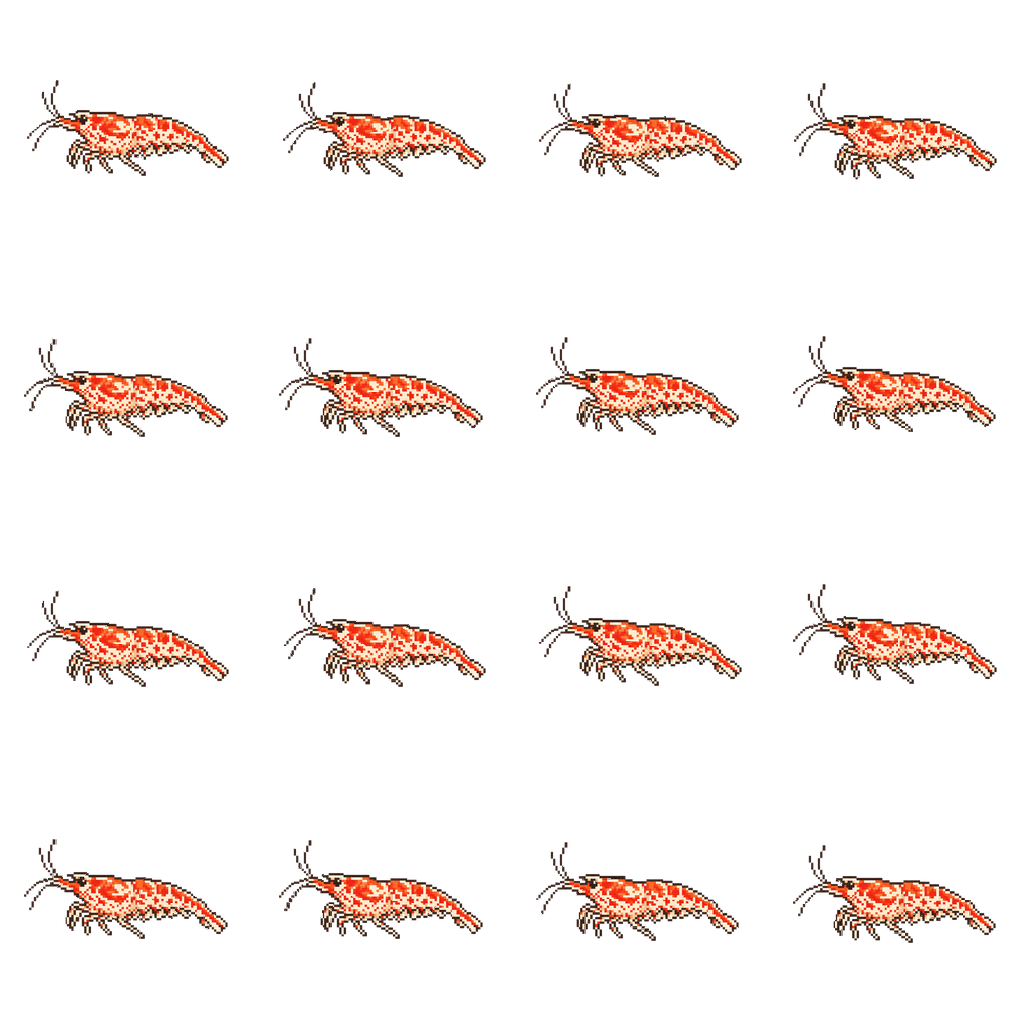
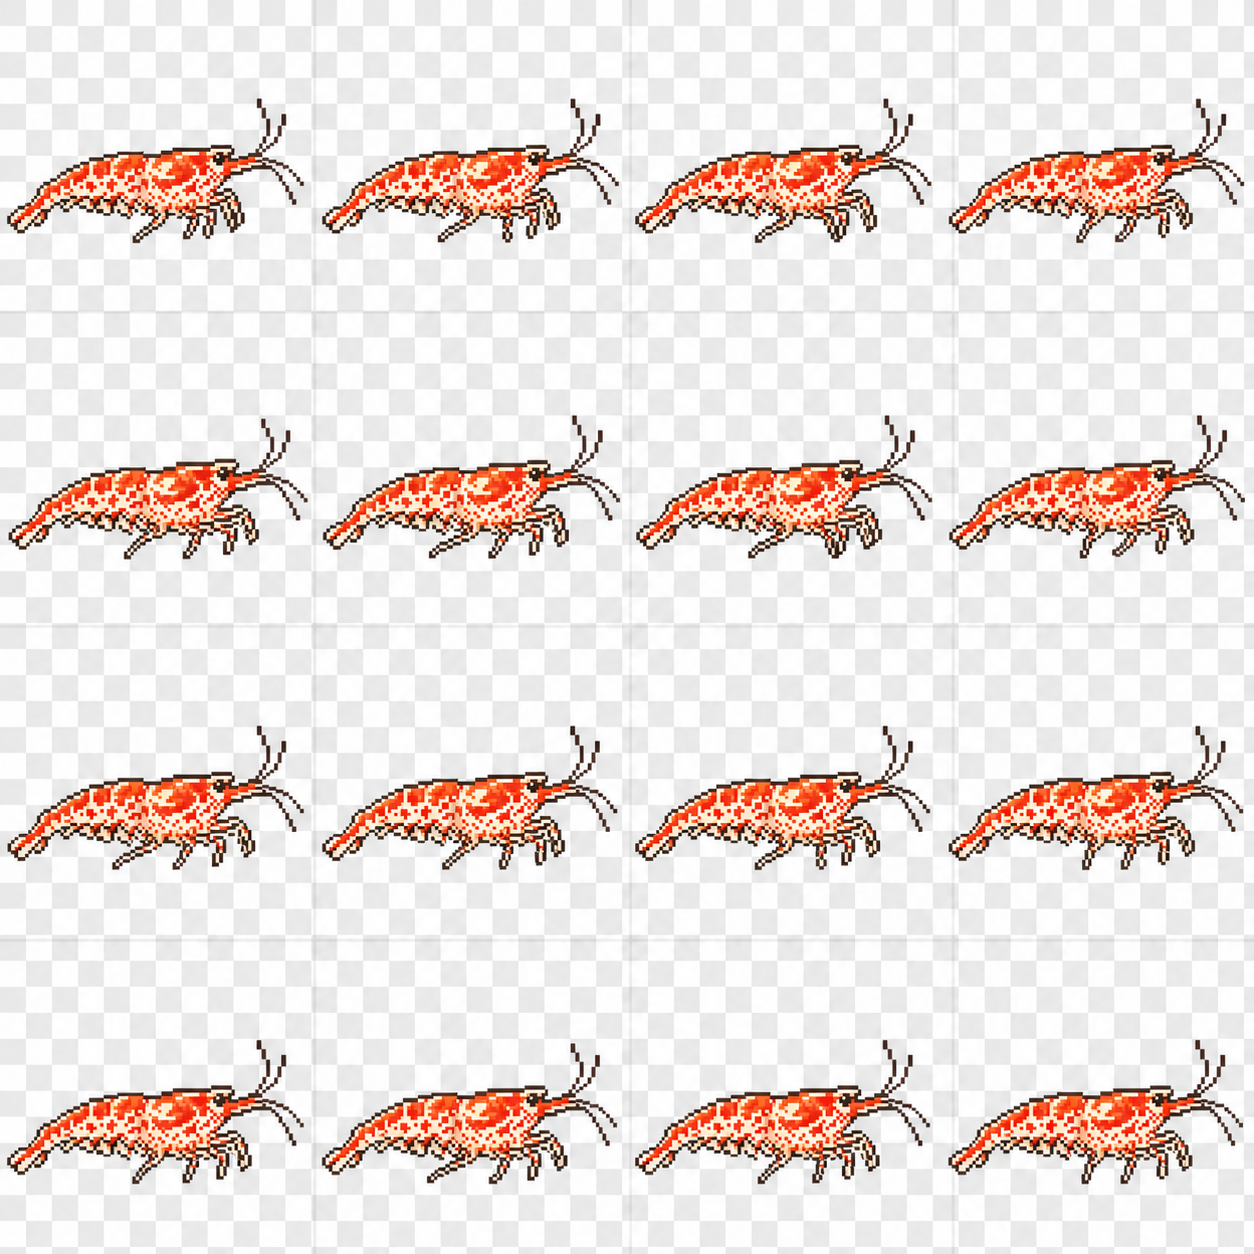
Silhouettes for locked fish, bigger detail hero, correct count, honest unlock text
- Locked cards now show a darkened silhouette of the actual species instead of
  one shared generic fish, so a locked slot hints at what is behind it.
- Detail page: the hero is cropped to the fish before scaling (the frames are
  mostly transparent padding, so scaling the square just scaled the emptiness),
  sits on no panel, and uses FastTransformation to keep the pixels crisp. The
  label is sized to the sprite rather than a fixed square, which had reserved
  empty rows and pushed the rarity badge on top of the fish; window grown
  520 -> 596 to fit.
- Discovery count used len(owned_fish), but that list repeats a species every
  time it is caught again - 31 entries for 15 species, so it could read
  '31/30 discovered'. Now counts unique ids.
- Unlock conditions were never shown: get_unlock_condition returned the flavour
  line whenever one existed. The real condition is shown now, with the flavour
  beneath it. The wording was also wrong - char_count and typing_speed are
  measured over a single day, not all time, per update_qualifiers.

Fish facts: corrected two. Bettas are not 'the only fish that could survive
outside water' - lungfish, mudskippers and others do it too; the labyrinth
organ is about low-oxygen water. And the Lost Shark is a specific species,
Carcharhinus obsoletus, described in 2019 and unrecorded since 1934 - not a
general term for deep-sea species that vanish. The other 28 check out.
[…]

diff --git a/fish_details.py b/fish_details.py
@@ -29,12 +29,12 @@ class FishDetailsWindow(QWidget):
             Qt.WindowType.Tool
         )
         self.setAttribute(Qt.WidgetAttribute.WA_TranslucentBackground)
-        self.setFixedSize(360, 520)
+        self.setFixedSize(360, 596)
         self.setWindowTitle("")
 
         # === Main container with rounded corners ===
         main_container = QFrame(self)
-        main_container.setGeometry(0, 0, 360, 520)
+        main_container.setGeometry(0, 0, 360, 596)
         main_container.setStyleSheet("""
             QFrame {
                 background-color: rgba(7, 18, 35, 240);
@@ -89,26 +89,28 @@ class FishDetailsWindow(QWidget):
         main_layout.addWidget(sci_label)
 
         # ===== FISH SPRITE =====
+        # Large, on no panel at all, and scaled with FastTransformation: these
+        # are pixel sprites, and smooth scaling blurs them into mush.
         self.image_label = QLabel()
-        self.image_label.setFixedSize(80, 80)
         self.image_label.setAlignment(Qt.AlignmentFlag.AlignCenter)
-        self.image_label.setScaledContents(True)
+        self.image_label.setStyleSheet("background: transparent;")
 
         print(f"📷 Loading image for: {self.fish_id}")
-        img_path = f"assets/thumbnails/{self.fish_id}.png"
-        if not os.path.exists(img_path):
-            img_path = f"assets/{self.fish_id}_swim.png"
-            if os.path.exists(img_path):
-                pixmap = first_frame_pixmap(img_path).scaled(
-                    80, 80, Qt.AspectRatioMode.KeepAspectRatio,
-                    Qt.TransformationMode.SmoothTransformation
-                )
-            else:
-                pixmap = QPixmap("assets/default_fish.png")
-        else:
-            pixmap = QPixmap(img_path).scaled(80, 80, Qt.AspectRatioMode.KeepAspectRatio)
+        thumbnail = f"assets/thumbnails/{self.fish_id}.png"
+        sprite = f"assets/{self.fish_id}_swim.png"
 
-        self.image_label.setPixmap(pixmap)
+        if os.path.exists(thumbnail):
+            source = QPixmap(thumbnail)
+        elif os.path.exists(sprite):
+            source = first_frame_pixmap(sprite)
+        else:
+            source = QPixmap("assets/default_fish.png")
+
+        hero = self._hero_pixmap(source)
+        self.image_label.setPixmap(hero)
+        # Fixed to the sprite's own size - a fixed square would reserve empty
+        # rows that push the rest of the page off the bottom of the window.
+        self.image_label.setFixedSize(hero.width(), hero.height())
         main_layout.addWidget(self.image_label, alignment=Qt.AlignmentFlag.AlignCenter)
 
         # ===== RARITY BADGE (matching Collection screen style) =====
@@ -219,8 +221,7 @@ class FishDetailsWindow(QWidget):
         """)
         main_layout.addWidget(unlock_label)
 
-        unlock_text = self.get_unlock_condition()
-        unlock_value = QLabel(unlock_text)
+        unlock_value = QLabel(self.get_unlock_condition())
         unlock_value.setStyleSheet("""
             color: white;
             font-size: 14px;
@@ -229,6 +230,21 @@ class FishDetailsWindow(QWidget):
         """)
         unlock_value.setWordWrap(True)
         main_layout.addWidget(unlock_value)
+
+        # The flavour line sits under the real condition rather than replacing
+        # it, which is what used to happen.
+        flavour = self.get_unlock_flavour()
+        if flavour:
+            flavour_label = QLabel(flavour)
+            flavour_label.setStyleSheet("""
+                color: rgba(255, 255, 255, 0.55);
+                font-size: 12px;
+                font-style: italic;
+                font-family: 'DM Sans';
+                background: transparent;
+            """)
+            flavour_label.setWordWrap(True)
+            main_layout.addWidget(flavour_label)
 
         main_layout.addStretch()
 
@@ -289,31 +305,75 @@ class FishDetailsWindow(QWidget):
                 return date
         return "Not yet discovered"
 
+    # The hero is a bare sprite on no panel, so it can be generously large.
+    HERO_W, HERO_H = 232, 150
+
+    @staticmethod
+    def _crop_to_content(pixmap):
+        """Trim the transparent border off a sprite frame.
+
+        Generated frames centre the fish inside 256x256 with a lot of empty
+        space around it. Scaling that whole square just scales the emptiness -
+        cropping first is what actually makes the fish big.
+        """
+        if pixmap.isNull():
+            return pixmap
+
+        image = pixmap.toImage()
+        width, height = image.width(), image.height()
+        left, top, right, bottom = width, height, -1, -1
+        for y in range(height):
+            for x in range(width):
+                if image.pixelColor(x, y).alpha() > 10:
+                    left = min(left, x)
+                    right = max(right, x)
+                    top = min(top, y)
+                    bottom = max(bottom, y)
+        if right < 0:
+            return pixmap
+        return pixmap.copy(left, top, right - left + 1, bottom - top + 1)
+
+    def _hero_pixmap(self, source):
+        """Crop to the fish, then scale it up without blurring.
+
+        FastTransformation is deliberate: these are hard-edged pixel sprites and
+        smooth scaling turns them to mush.
+        """
+        source = self._crop_to_content(source)
+        if source.isNull() or source.width() == 0:
+            return source
+
+        return source.scaled(self.HERO_W, self.HERO_H,
+                             Qt.AspectRatioMode.KeepAspectRatio,
+                             Qt.TransformationMode.FastTransformation)
+
     def get_unlock_condition(self):
-        """Get the unlock condition as a readable string"""
+        """Spell out exactly what earns this fish.
+
+        The wording tracks what UnlockManager.update_qualifiers actually tests -
+        char_count and typing_speed are measured over a single day, not all
+        time, which the previous text got wrong. The flavour line is returned
+        separately so the real condition is never hidden behind it.
+        """
         unlock = self.fish_data.get("unlock", {})
         unlock_type = unlock.get("type", "unknown")
-        unlock_value = unlock.get("value", 0)
-        label_reason = unlock.get("label_reason", "")
+        value = unlock.get("value", 0)
+        amount = f"{value:,}" if isinstance(value, (int, float)) else str(value)
 
-        if isinstance(unlock_value, (int, float)):
-            formatted_value = f"{unlock_value:,}"
-        else:
-            formatted_value = str(unlock_value)
-
-        type_map = {
-            "char_count": f"Type {formatted_value} characters total",
-            "typing_speed": f"Reach {formatted_value} WPM",
-            "focus": f"Focus for {formatted_value} minutes",
-            "burst": f"Maintain burst speed for {formatted_value} minutes",
-            "streak": f"Log in for {formatted_value} days in a row",
-            "day_night": f"Unlocked during {formatted_value}",
-            "random": "Completely random chance!"
+        conditions = {
+            "char_count": f"Type {amount} characters in one day",
+            "typing_speed": f"Reach {amount} WPM in one day",
+            "focus": f"Type for {amount} minutes without pausing for more than a minute",
+            "burst": f"Hold 50 WPM or more for {amount} minutes",
+            "streak": f"Type on {amount} days in a row",
+            "day_night": ("Only appears during the day" if value == "day"
+                          else "Only appears at night"),
+            "random": "Can turn up at any time, purely by chance",
         }
+        return conditions.get(unlock_type, f"Unknown condition: {unlock_type}")
 
-        if label_reason:
-            return label_reason
-        return type_map.get(unlock_type, f"Unknown: {unlock_type}")
+    def get_unlock_flavour(self):
+        return self.fish_data.get("unlock", {}).get("label_reason", "")
 
     def mousePressEvent(self, event):
         if event.button() == Qt.MouseButton.LeftButton:

diff --git a/collection_widget.py b/collection_widget.py
@@ -4,7 +4,7 @@ import json
 import os
 from PyQt6.QtWidgets import (QWidget, QVBoxLayout, QHBoxLayout, QScrollArea,
                              QGridLayout, QLabel, QPushButton, QFrame, QSizePolicy)
-from PyQt6.QtGui import QPixmap, QIcon
+from PyQt6.QtGui import QPixmap, QIcon, QPainter, QColor
 from PyQt6.QtCore import Qt, QSize, QTimer
 
 from ui_components import first_frame_pixmap
@@ -130,6 +130,23 @@ class CollectionWindow(QWidget):
             super().keyPressEvent(event)
 
 
+def silhouette(pixmap):
+    """Flatten a sprite to a soft dark shape, keeping its outline."""
+    if pixmap.isNull():
+        return pixmap
+
+    shape = QPixmap(pixmap.size())
+    shape.fill(Qt.GlobalColor.transparent)
+
+    painter = QPainter(shape)
+    painter.setRenderHint(QPainter.RenderHint.Antialiasing)
+    painter.drawPixmap(0, 0, pixmap)
+    painter.setCompositionMode(QPainter.CompositionMode.CompositionMode_SourceIn)
+    painter.fillRect(shape.rect(), QColor(6, 26, 50, 205))
+    painter.end()
+    return shape
+
+
 class FishCard(aero.LiquidPanel):
     """Individual fish card in the collection grid"""
 
@@ -170,25 +187,29 @@ class FishCard(aero.LiquidPanel):
         self.image_label = QLabel()
         self.image_label.setFixedSize(72, 72)
         self.image_label.setAlignment(Qt.AlignmentFlag.AlignCenter)
-        self.image_label.setScaledContents(True)
+        # Scaled explicitly below, so let the label centre it rather than
+        # stretching it out of proportion.
+        self.image_label.setScaledContents(False)
 
-        if is_owned:
-            thumbnail_path = f"assets/thumbnails/{fish_data['id']}.png"
-            if os.path.exists(thumbnail_path):
-                pixmap = QPixmap(thumbnail_path)
-            else:
-                sprite_path = f"assets/{fish_data['id']}_swim.png"
-                if os.path.exists(sprite_path):
-                    pixmap = first_frame_pixmap(sprite_path).scaled(
-                        72, 72, Qt.AspectRatioMode.KeepAspectRatio,
-                        Qt.TransformationMode.SmoothTransformation
-                    )
-                else:
-                    pixmap = QPixmap("assets/default_fish.png")
-            self.image_label.setPixmap(pixmap)
+        thumbnail_path = f"assets/thumbnails/{fish_data['id']}.png"
+        sprite_path = f"assets/{fish_data['id']}_swim.png"
+
+        if os.path.exists(thumbnail_path):
+            source = QPixmap(thumbnail_path)
+        elif os.path.exists(sprite_path):
+            source = first_frame_pixmap(sprite_path)
         else:
-            pixmap = QPixmap("assets/default_fish.png")
-            self.image_label.setPixmap(pixmap)
+            source = QPixmap("assets/default_fish.png")
+
+        source = source.scaled(72, 72, Qt.AspectRatioMode.KeepAspectRatio,
+                               Qt.TransformationMode.SmoothTransformation)
+
+        if not is_owned:
+            # Silhouette of the actual species rather than one generic fish, so
+            # a locked card still hints at what is waiting behind it.
+            source = silhouette(source)
+
+        self.image_label.setPixmap(source)
 
         image_layout.addWidget(self.image_label, alignment=Qt.AlignmentFlag.AlignCenter)
         layout.addWidget(image_container, alignment=Qt.AlignmentFlag.AlignCenter)
@@ -648,7 +669,9 @@ class CollectionWidget(QWidget):
 
         filtered_fish.sort(key=lambda x: x[0].get("rarity", 50), reverse=True)
 
-        owned_count = len(owned_ids)
+        # owned_fish is a running list that repeats a species each time it is
+        # caught again, so it has to be de-duplicated before counting.
+        owned_count = len(set(owned_ids))
         total_count = len(self.all_fish)
         self.discovery_label.setText(f"{owned_count}/{total_count} discovered")
 
